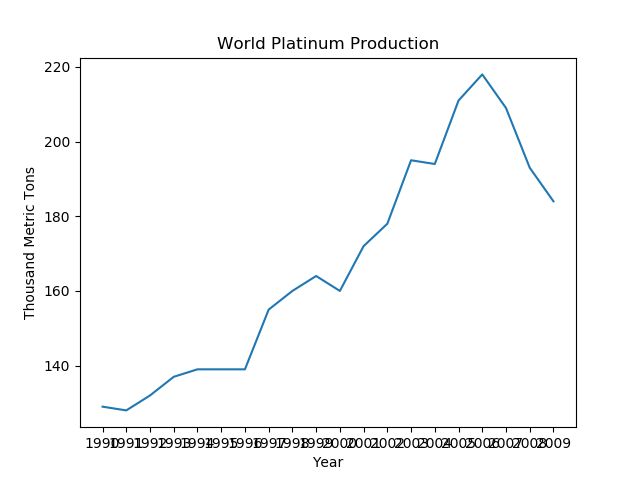
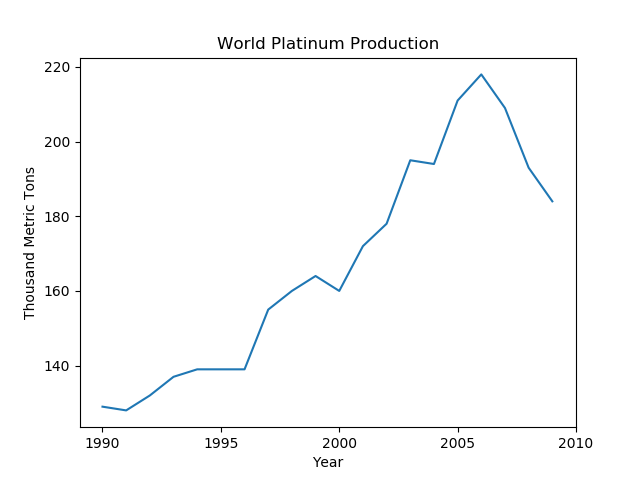
fixed x years

diff --git a/src/mineral/usplatinum.py b/src/mineral/usplatinum.py
@@ -21,7 +21,7 @@ plt.plot("Year", "Worldmineproduction", data=pt)
 plt.title("World Platinum Production")
 plt.ylabel("Thousand Metric Tons")
 plt.xlabel("Year")
-plt.xticks(range(1990, 2010)) 
+plt.xticks(range(1990, 2011, 5)) 
 plt.savefig("output/mineral/ptworldprod.png")
 
 fig = plt.figure()
